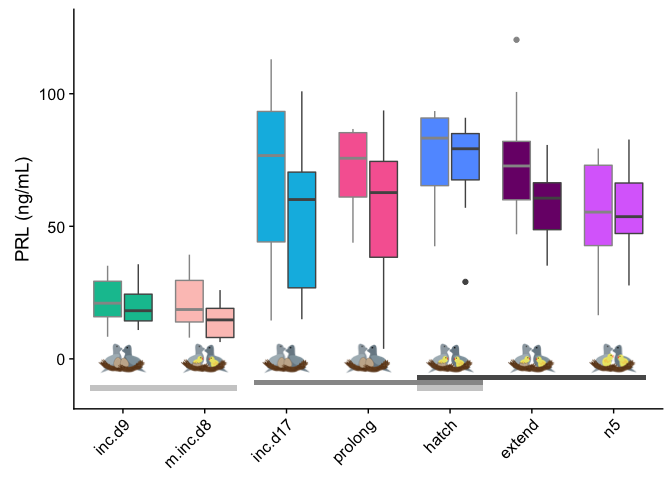
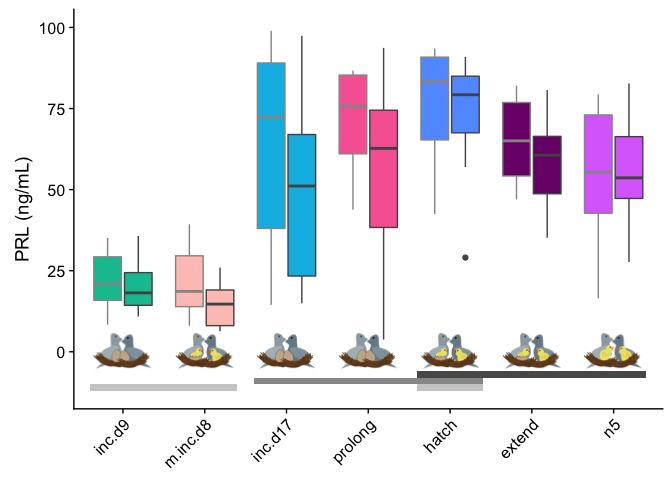
subtle image tweeks

diff --git a/analysis/07_hormones.md b/analysis/07_hormones.md
@@ -1,13 +1,13 @@
     library(tidyverse)
 
-    ## ── Attaching packages ────────────────────────────────────────────────────────────────────────────── tidyverse 1.3.0 ──
+    ## ── Attaching packages ───────────────────────────────────────────────────── tidyverse 1.3.0 ──
 
     ## ✔ ggplot2 3.2.1     ✔ purrr   0.3.3
     ## ✔ tibble  2.1.3     ✔ dplyr   0.8.3
     ## ✔ tidyr   1.0.0     ✔ stringr 1.4.0
     ## ✔ readr   1.3.1     ✔ forcats 0.4.0
 
-    ## ── Conflicts ───────────────────────────────────────────────────────────────────────────────── tidyverse_conflicts() ──
+    ## ── Conflicts ──────────────────────────────────────────────────────── tidyverse_conflicts() ──
     ## ✖ dplyr::filter() masks stats::filter()
     ## ✖ dplyr::lag()    masks stats::lag()
 
@@ -545,7 +545,7 @@
         scale_fill_manual(values = colorscharmaip) +
         scale_color_manual(values = sexcolors) +
         labs(y = "PRL (ng/mL)", x = NULL) +
-      ylim(c(-12,125)) +
+      ylim(c(-12,100)) +
        annotation_custom(inc, xmax = 1.6, ymin = -10, ymax = 10) +
        annotation_custom(hatch, xmax = 3.6, ymin = -10, ymax = 10) +
        annotation_custom(inc, xmax = 5.6, ymin = -10, ymax = 10) +
